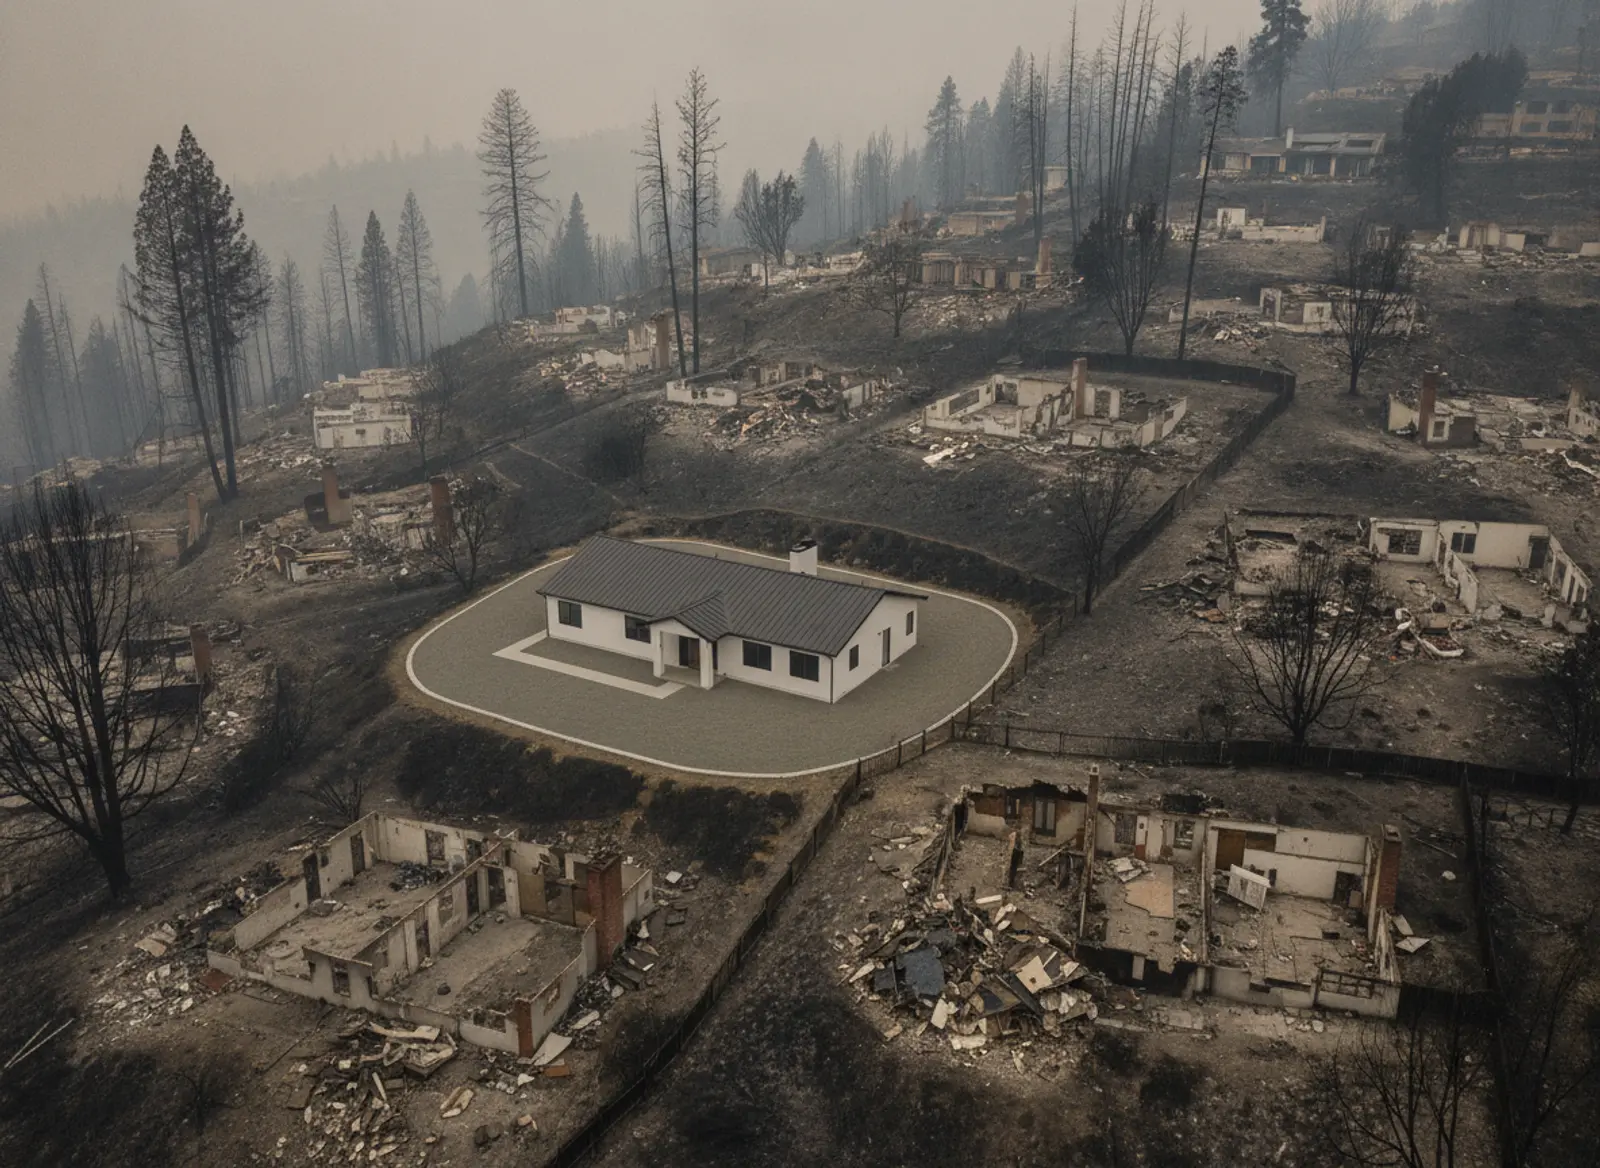
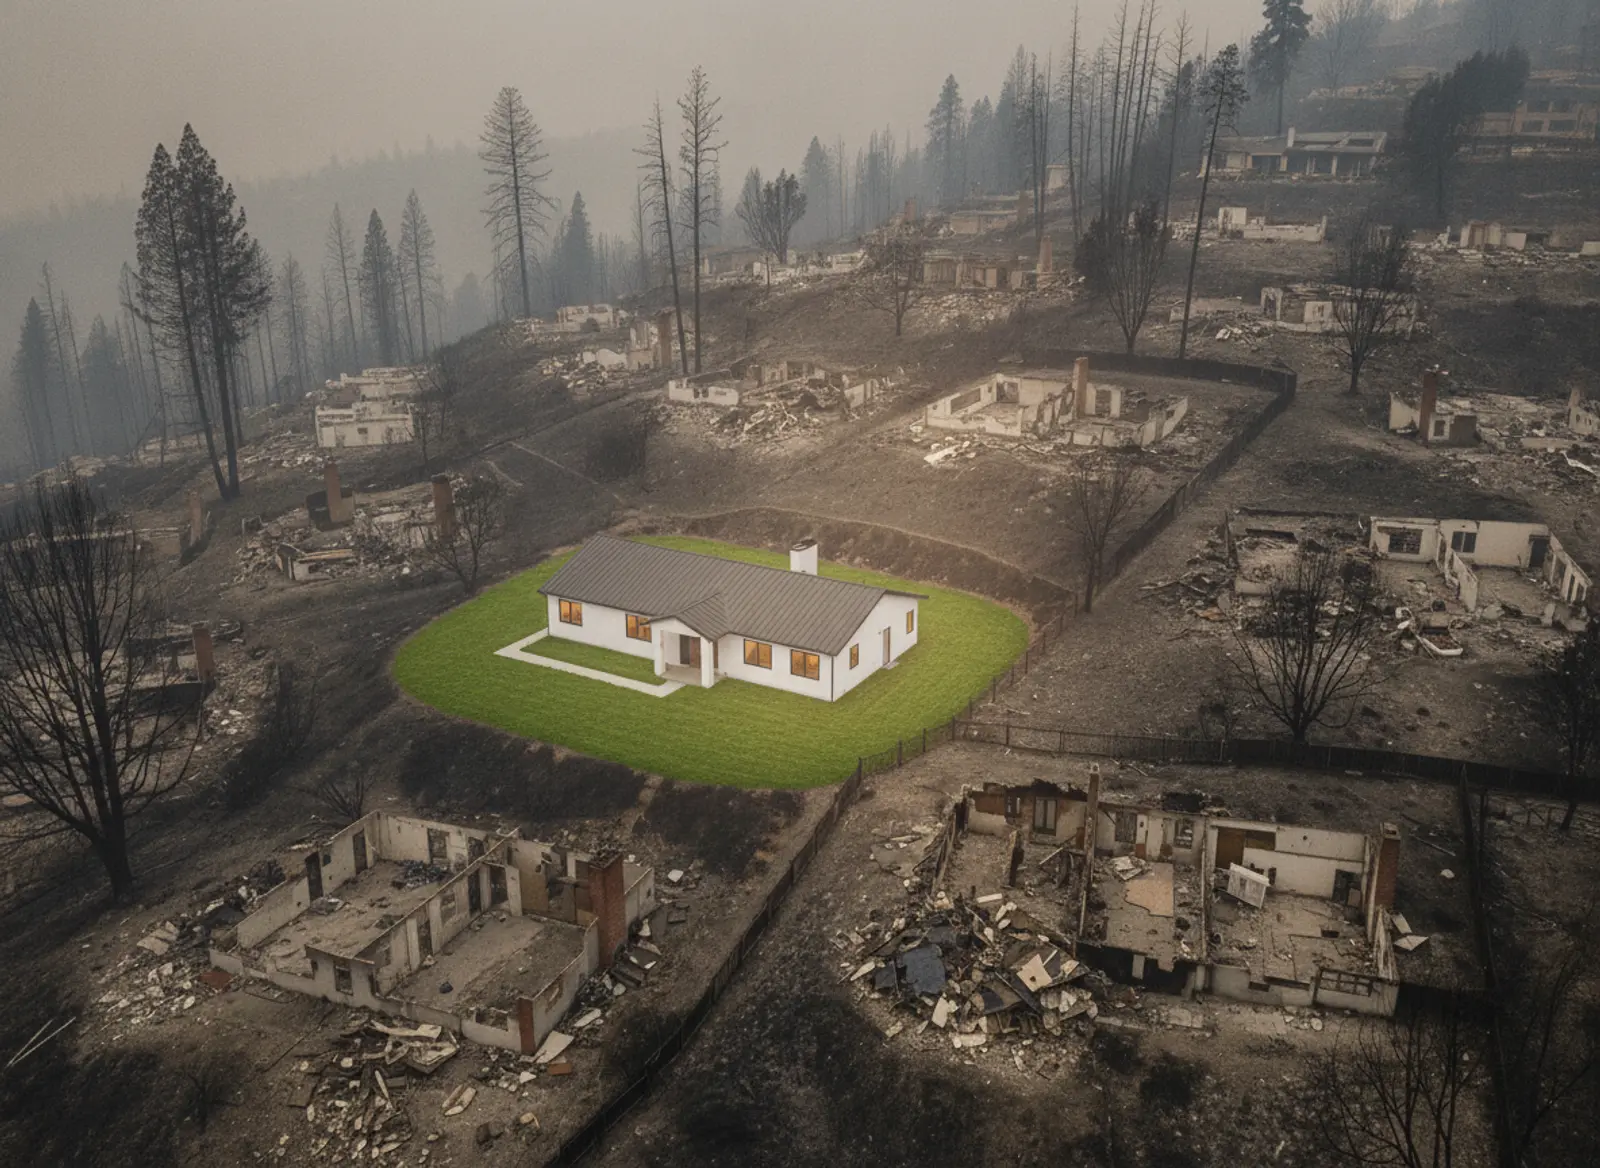
Fit landing hero to viewport height and brighten intact home in aftermath image

diff --git a/src/sections/landing/HeroLandingSection.tsx b/src/sections/landing/HeroLandingSection.tsx
@@ -17,7 +17,7 @@ const HeroLandingSection: React.FC<ILandingHero> = ({
   backgroundImageAlt,
 }) => {
   return (
-    <section className='relative w-full min-h-[110vh] bg-dark flex items-center justify-center py-20'>
+    <section className='relative w-full min-h-svh bg-dark flex items-center justify-center py-20'>
       {/* Background Image */}
       <div className='absolute inset-0 z-0'>
         <ArtDirectedHeroImage
